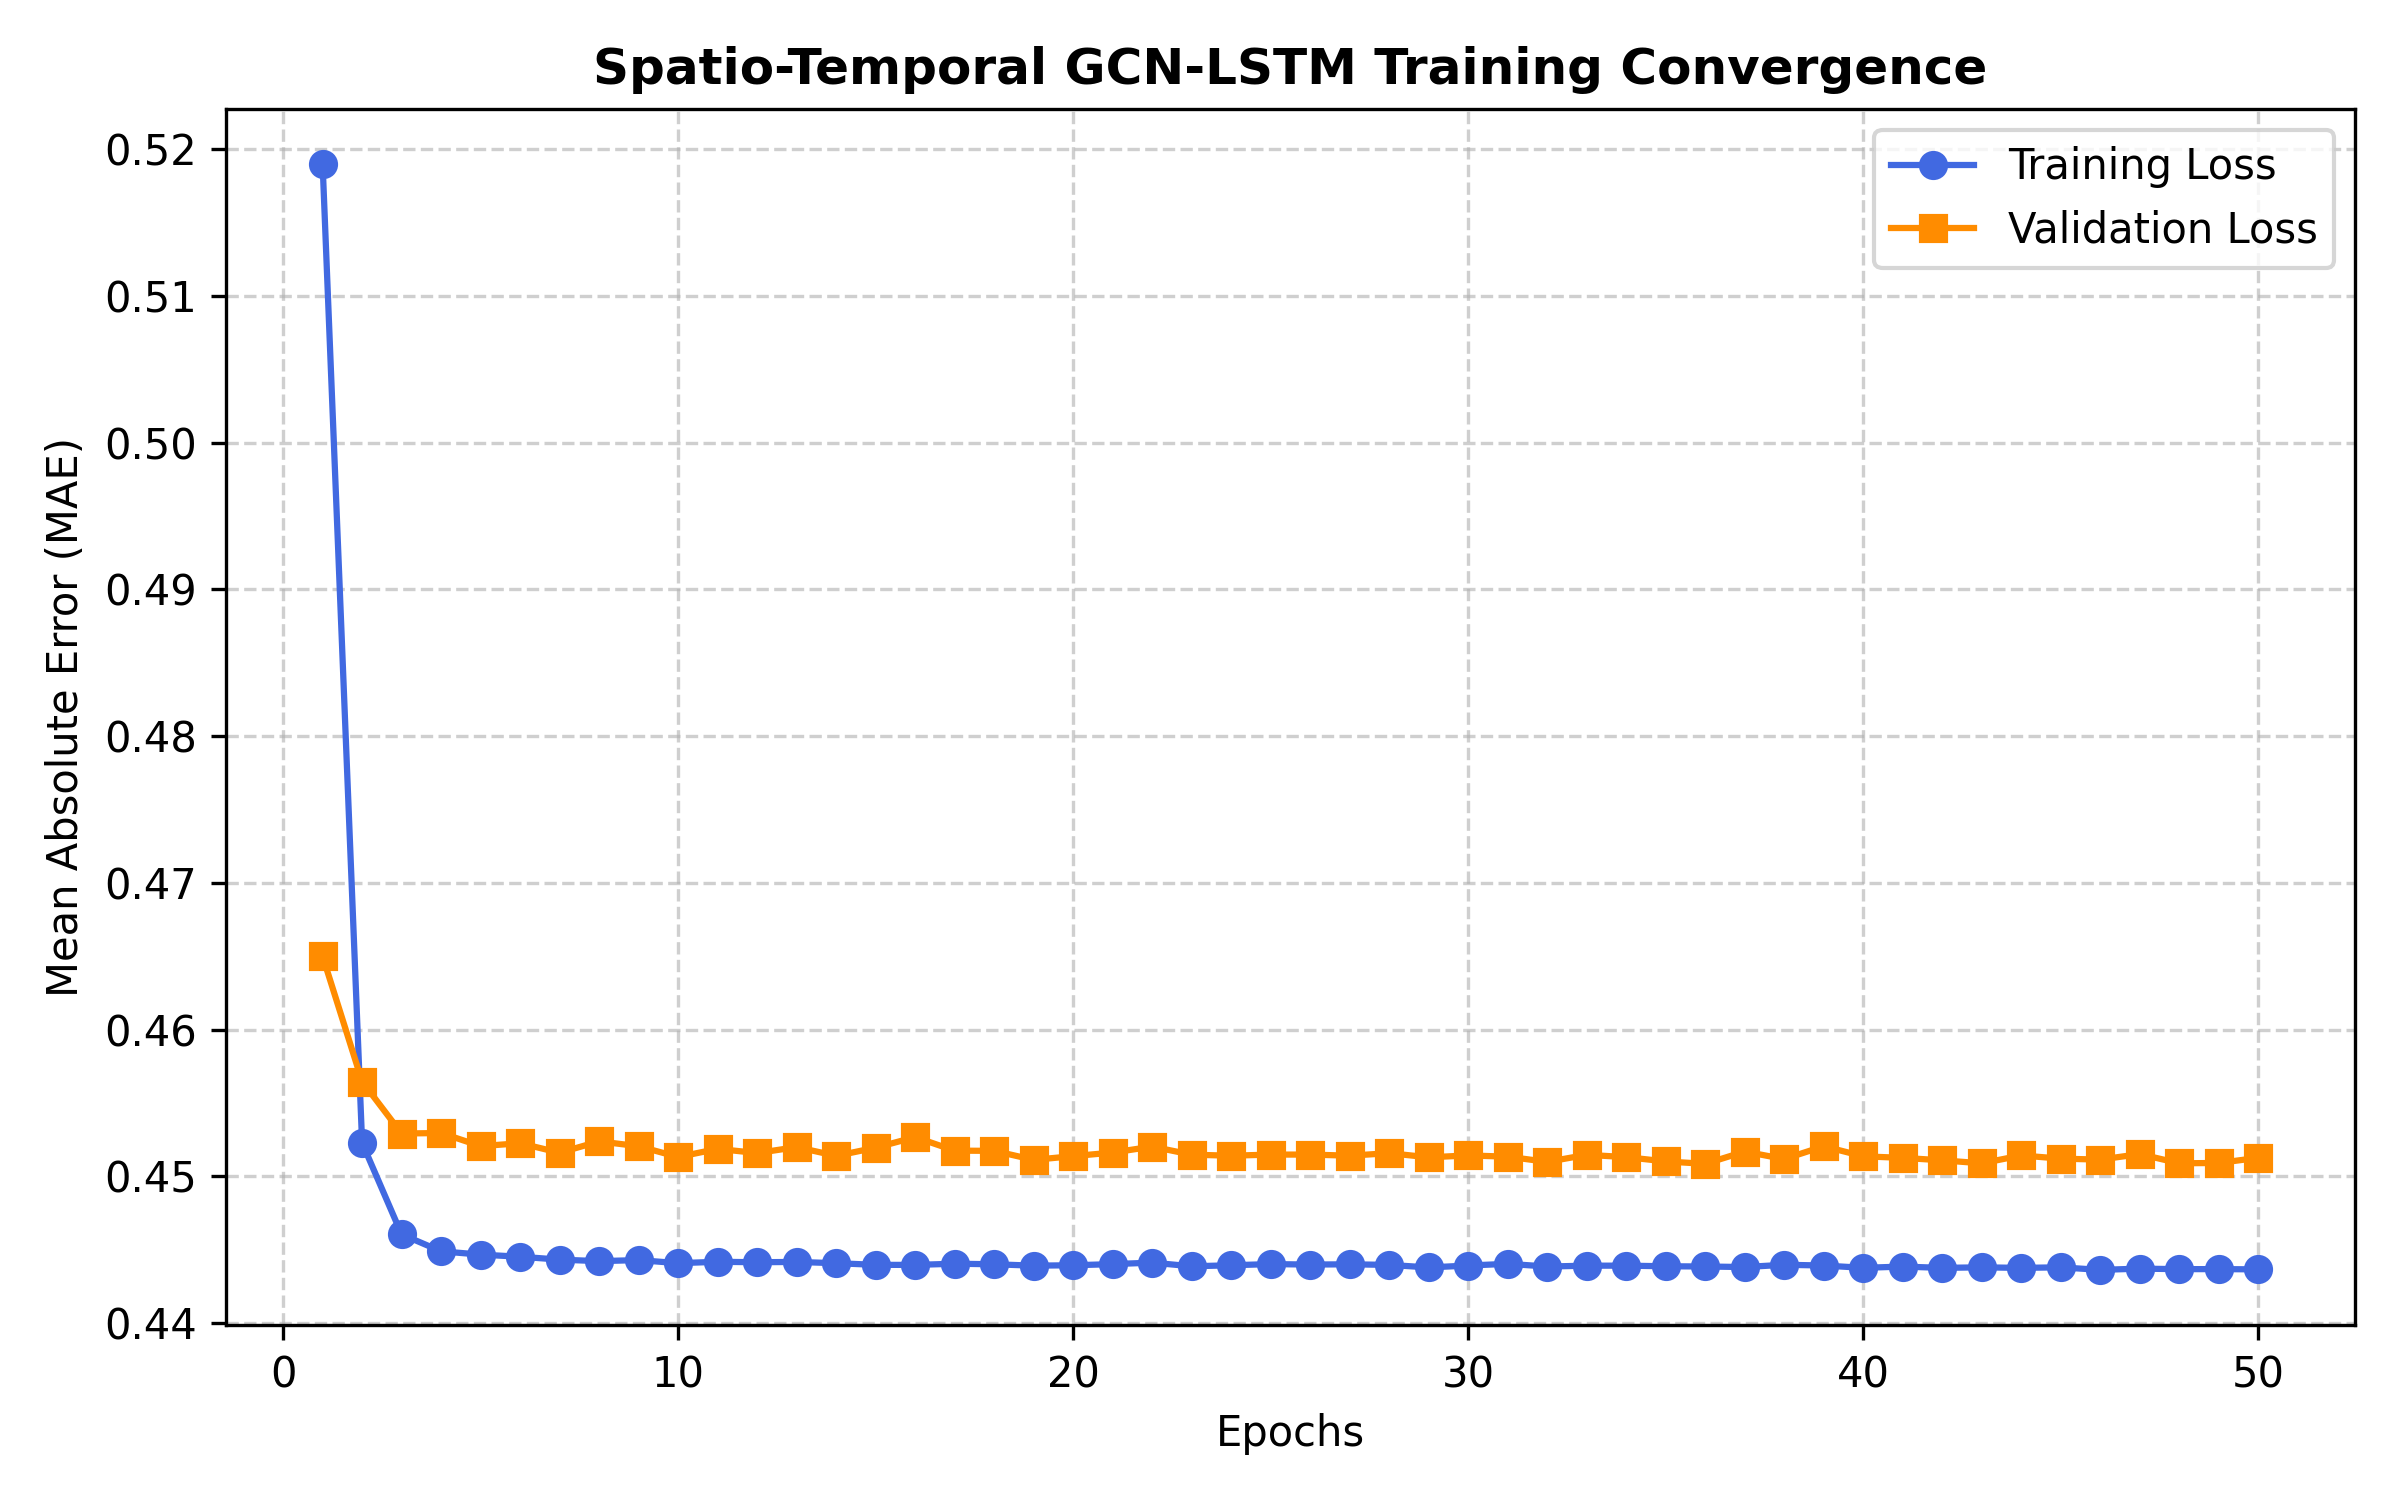
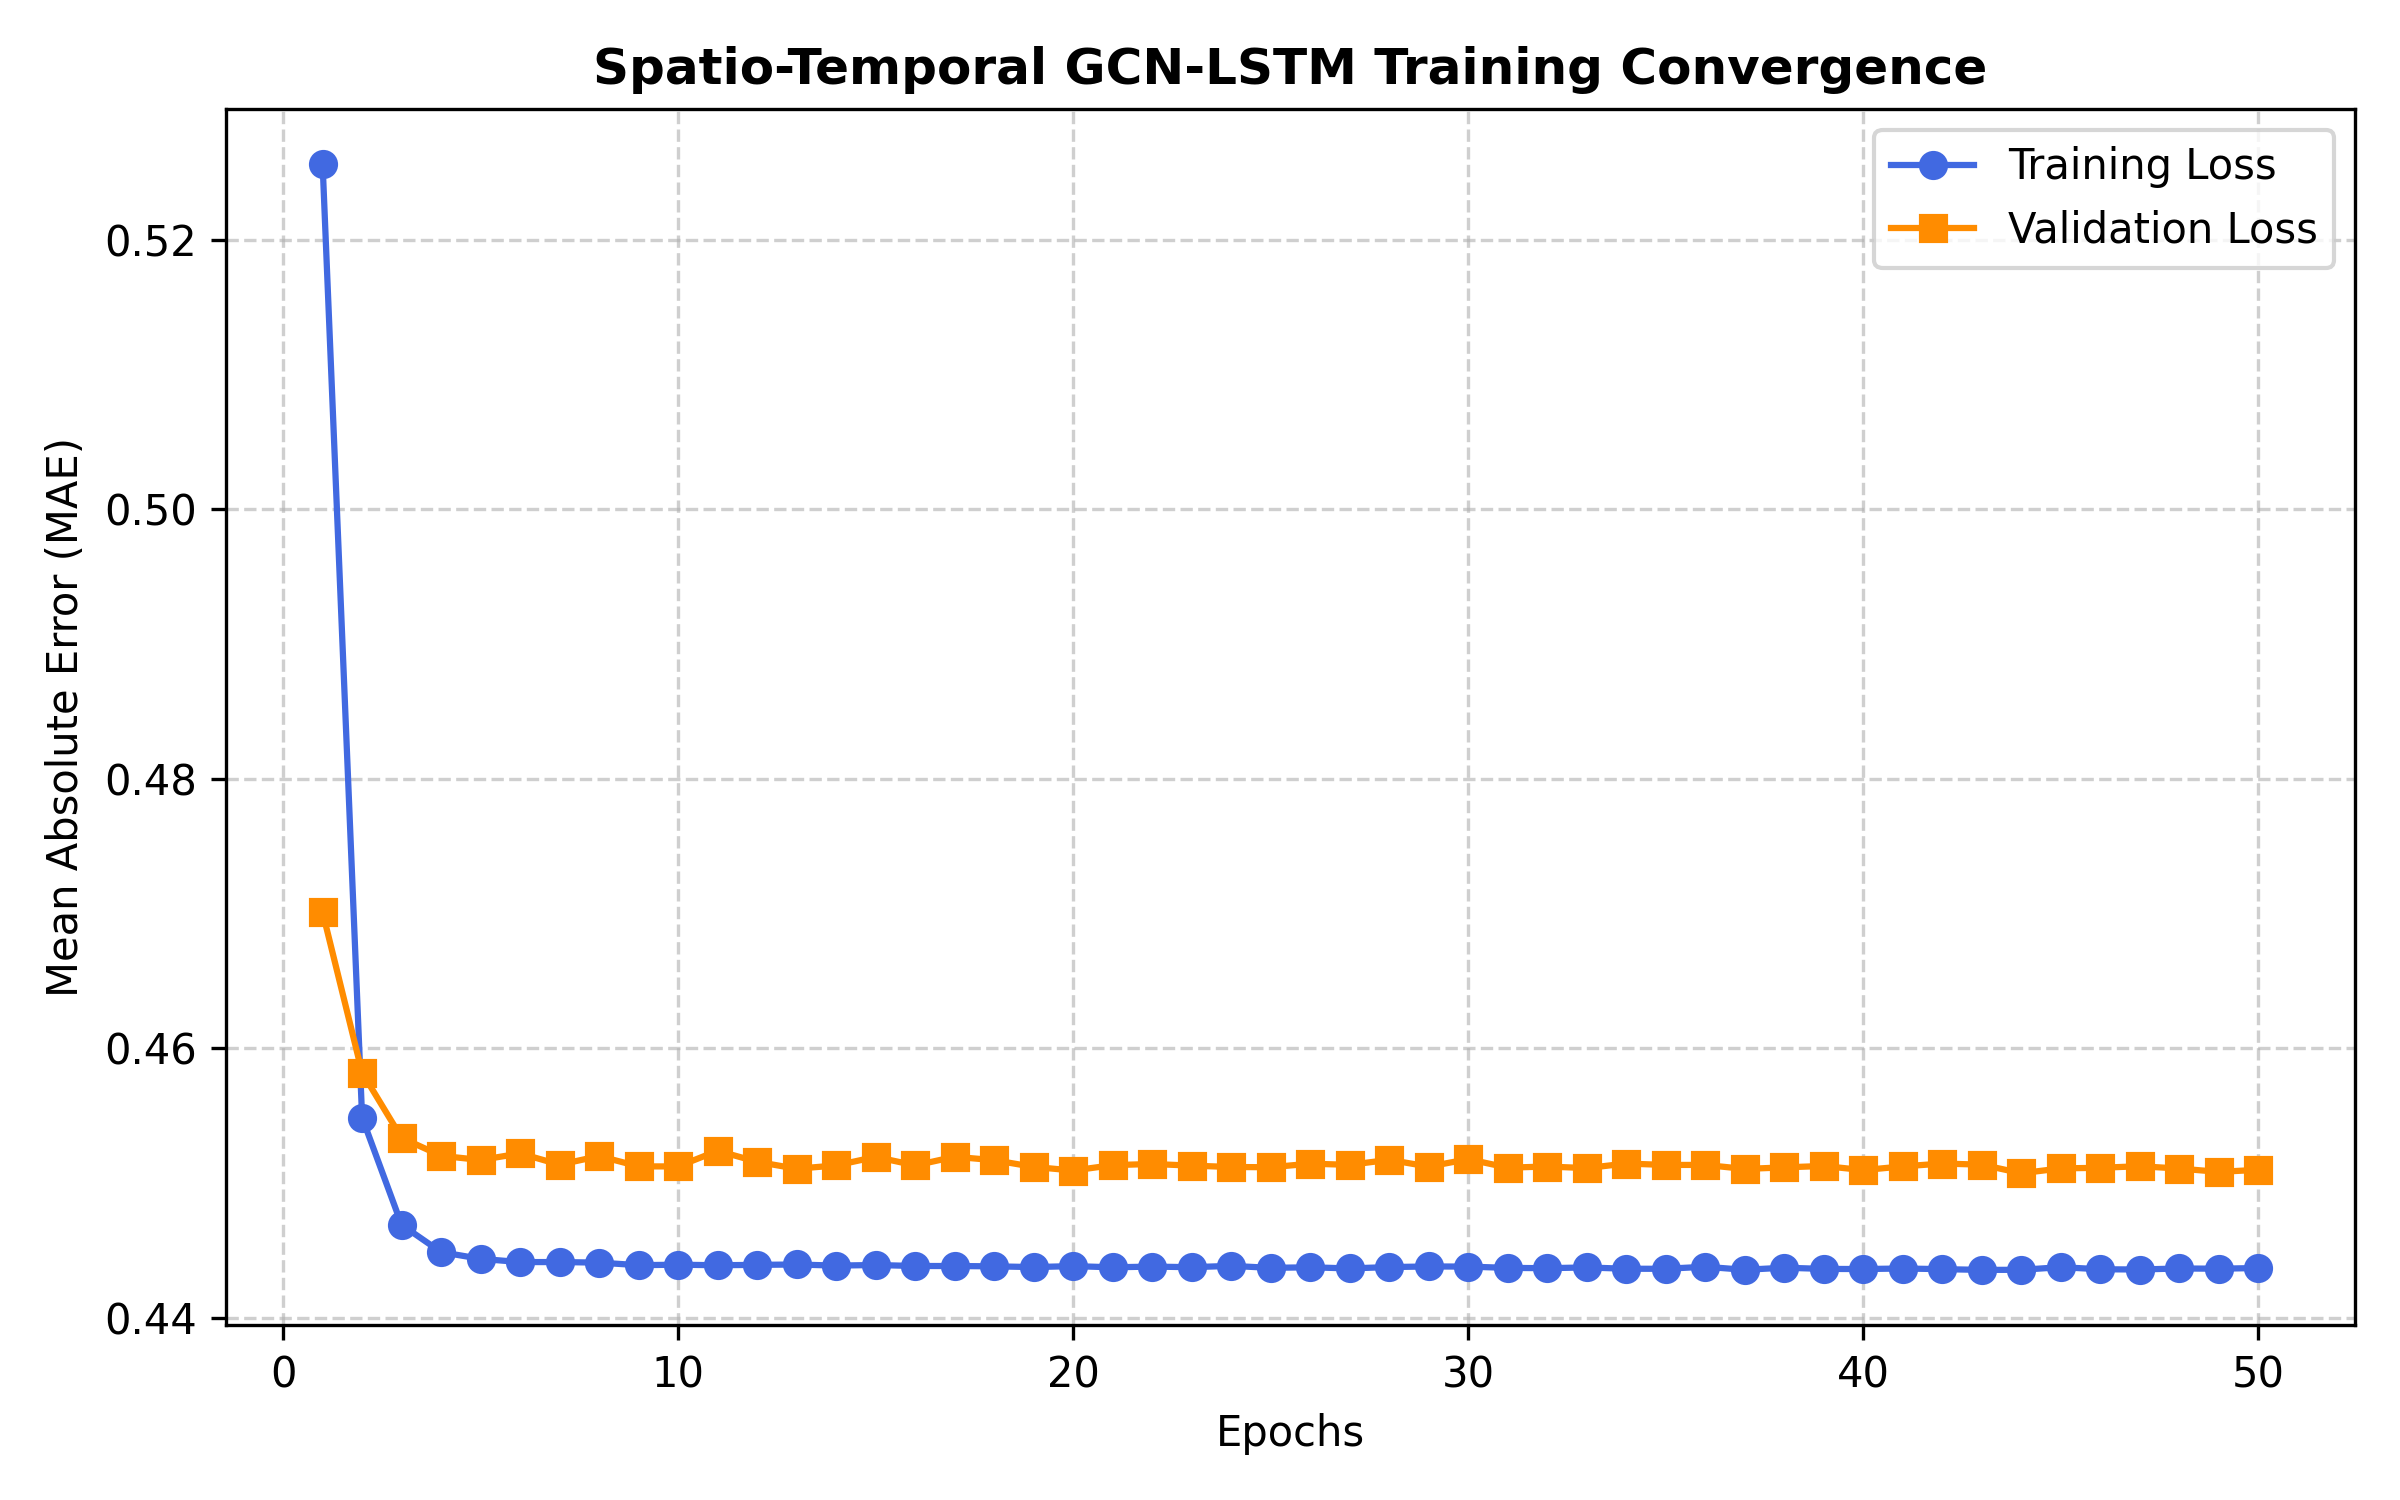
Created an interactive CLI demo to demonstrate the functionality of the system.

diff --git a/train.py b/train.py
@@ -181,7 +181,7 @@ def run_model_comparison(epochs: int = 10, batch_size: int = 64, lr: float = 0.0
     num_nodes = adj_matrix.shape[0]
 
     models_to_test = {
-        # "Spatio-Temporal GCN-LSTM": SpatioTemporalBaseline(num_nodes=num_nodes, in_features=1, hidden_dim=hidden_dim,horizon=12),
+        "Spatio-Temporal GCN-LSTM": SpatioTemporalBaseline(num_nodes=num_nodes, in_features=1, hidden_dim=hidden_dim,horizon=12),
         "Pure LSTM (No Spatial)": PureLSTMModel(num_nodes=num_nodes, in_features=1, hidden_dim=hidden_dim, horizon=12),
         "Pure GCN (No Recurrence)": PureGCNModel(num_nodes=num_nodes, in_features=1, hidden_dim=hidden_dim, horizon=12),
         "Linear Regressor Baseline": LinearBaseline(num_nodes=num_nodes, in_features=1, history_window=12, horizon=12)
